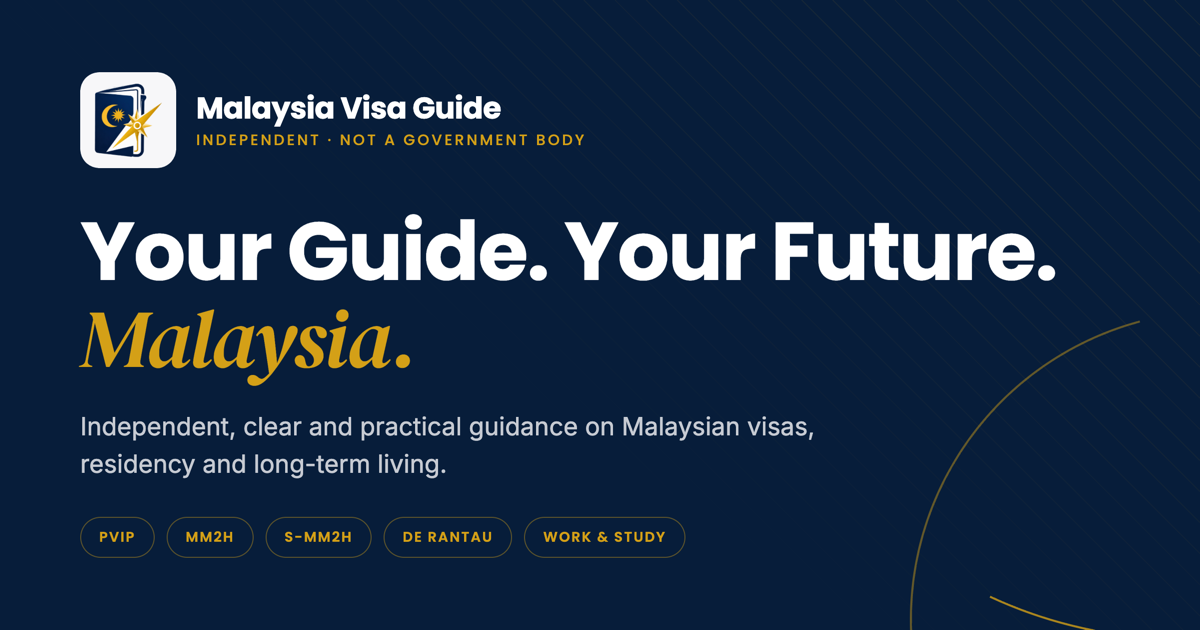
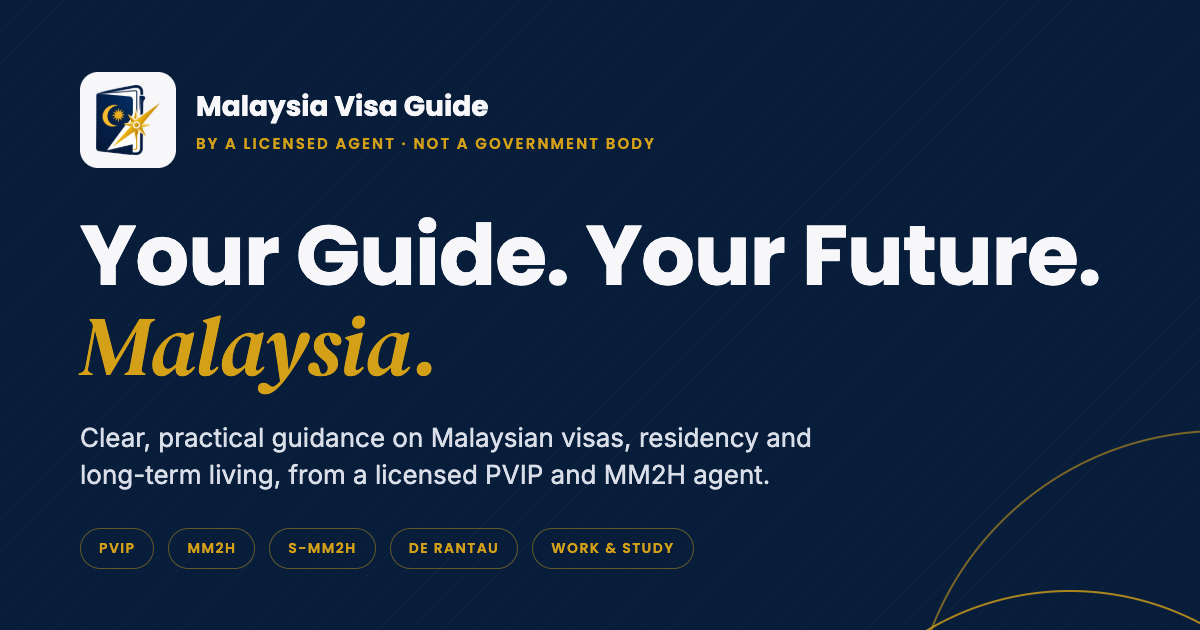
Batch 3: replace the 'independent' positioning with the licensed-agent wording; disclosure under every H1; both companies named in the author box and footer
- B3-1: site description, strapline, footer, home, about, contact, thank-you, editorial policy, llms.txt and the social card, in all three languages
- B3-2: one-line disclosure under the H1 on guides, insights and tools
- B3-3: author box and footer name MYPVIP and MY Premium MM2H with their programmes
- Social card source kept at docs/brand/og-card.html

diff --git a/src/locales/ui/en.ts b/src/locales/ui/en.ts
@@ -141,6 +141,10 @@ export type UiStrings = {
     bylineMid: string;
     bylineAfter: string;
     bylinePublished: (date: string) => string;
+    /** The one-line disclosure under the H1 (audit task B3-2); the author's
+     *  name, linked to the author page, sits between the two halves. */
+    disclosureLineBefore: string;
+    disclosureLineAfter: string;
     bylineLastReviewed: (date: string) => string;
     /** The tier comparison table — components/TierTable.tsx. */
     tiers: {
@@ -385,10 +389,10 @@ export type UiStrings = {
 export const ui: UiStrings = {
   siteName: "Malaysia Visa Guide",
   siteDescription:
-    "An independent guide to Malaysia's long-stay visa programmes — PVIP, MM2H, Sarawak MM2H and DE Rantau. Costs, requirements and timelines, verified against official sources.",
+    "Malaysia's long-stay visas — PVIP, MM2H, Sarawak MM2H and DE Rantau — explained by a licensed PVIP and MM2H agent. Figures checked against official documents.",
   ogImageAlt:
-    "Malaysia Visa Guide — an independent guide to PVIP, MM2H, Sarawak MM2H, DE Rantau and the Student and Employment passes.",
-  strapline: ["Independent visa guide", "not a government body"],
+    "Malaysia Visa Guide — PVIP, MM2H, Sarawak MM2H, DE Rantau and the Student and Employment passes, explained by a licensed PVIP and MM2H agent.",
+  strapline: ["By a licensed visa agent", "not a government body"],
   askQuestion: "Ask a question",
   menu: "Menu",
   ariaPrimaryNav: "Primary",
@@ -488,10 +492,10 @@ export const ui: UiStrings = {
     headingAccent: "no sales pitch",
     disclosureTitle: "Publisher & disclosure",
     disclosureBefore:
-      "An independent guide — not affiliated with the Immigration Department of Malaysia or any government agency. Published by Jason Yap, Managing Director of ",
+      "Written and maintained by a licensed PVIP and MM2H agent. Figures are checked against official documents; where we rely on our own practice, we say so. Not affiliated with the Immigration Department of Malaysia or any government agency. Published by Jason Yap, Managing Director of ",
     disclosureMypvip: "MYPVIP",
     disclosureBetween:
-      ", a licensed agency whose services are described on ",
+      " (MY PR Program Sdn Bhd, which handles Premium Visa Programme applications) and of MY Premium MM2H (My Premium (MM2H) Sdn Bhd, which handles Malaysia My Second Home applications). Both are described on ",
     disclosureAbout: "the about page",
     disclosureAfter: ".",
     rights: "All rights reserved.",
@@ -517,7 +521,10 @@ export const ui: UiStrings = {
     keyFactsLabel: (programme) => `Key facts: ${programme}`,
     bylineBefore: "Written and reviewed by ",
     bylineMid: "President, MPVIPCA · Managing Director, ",
-    bylineAfter: "",
+    bylineAfter: " (Premium Visa Programme) and MY Premium MM2H (Malaysia My Second Home)",
+    disclosureLineBefore: "Disclosure: this guide is published by ",
+    disclosureLineAfter:
+      ", Managing Director of MYPVIP and MY Premium MM2H, which are licensed PVIP and MM2H agencies.",
     bylinePublished: (date) => `Published ${date}`,
     bylineLastReviewed: (date) => `Last reviewed ${date}`,
     tiers: {

diff --git a/docs/brand/og-card.html b/docs/brand/og-card.html
@@ -1,0 +1,50 @@
+<!doctype html>
+<!--
+  Source for public/og.png — the sitewide social card.
+
+  Not part of the build. To regenerate: open this file in Chrome at exactly
+  1200×630, screenshot to public/og.png, then `sips -z 630 1200 public/og.png`.
+  Reword here whenever the site's positioning line changes (last: 10 Nov 2026,
+  audit task B3-1 — "independent" replaced by the licensed-agent wording).
+-->
+<html lang="en">
+<head>
+<meta charset="utf-8">
+<link href="https://fonts.googleapis.com/css2?family=DM+Serif+Display:ital@1&family=Inter:wght@400&family=Poppins:wght@600;700&display=swap" rel="stylesheet">
+<style>
+  * { margin: 0; box-sizing: border-box; }
+  body {
+    width: 1200px; height: 630px; overflow: hidden; position: relative;
+    background: #071d3a;
+    background-image: repeating-linear-gradient(135deg, transparent 0 22px, rgb(255 255 255 / 0.025) 22px 23px);
+    color: #f7f7f9; font-family: Inter, sans-serif; padding: 72px 80px;
+  }
+  .arc { position: absolute; right: -330px; bottom: -420px; width: 620px; height: 620px; border: 2px solid rgb(212 160 23 / 0.55); border-radius: 50%; }
+  .arc.two { right: -150px; bottom: -520px; width: 560px; height: 560px; border-color: rgb(212 160 23 / 0.8); }
+  .brand { display: flex; align-items: center; gap: 20px; }
+  .mark { width: 96px; height: 96px; border-radius: 18px; background: #f7f7f9; display: grid; place-items: center; }
+  .mark img { height: 70px; }
+  .name { font: 700 28px Poppins, sans-serif; }
+  .strap { margin-top: 4px; font: 600 15px Poppins, sans-serif; letter-spacing: 0.14em; color: #d4a017; text-transform: uppercase; }
+  h1 { margin-top: 44px; font: 700 84px/1.05 Poppins, sans-serif; letter-spacing: -0.01em; }
+  .gold { font: italic 400 84px/1.1 "DM Serif Display", serif; color: #d4a017; }
+  .lead { margin-top: 26px; max-width: 800px; font-size: 26px; line-height: 1.45; color: #d9dee8; }
+  .pills { margin-top: 34px; display: flex; gap: 14px; }
+  .pills span { border: 1px solid rgb(212 160 23 / 0.45); border-radius: 999px; padding: 9px 18px; font: 600 14px Poppins, sans-serif; letter-spacing: 0.1em; color: #d4a017; }
+</style>
+</head>
+<body>
+  <div class="arc"></div><div class="arc two"></div>
+  <div class="brand">
+    <div class="mark"><img src="../../public/logo-mark.png" alt=""></div>
+    <div>
+      <div class="name">Malaysia Visa Guide</div>
+      <div class="strap">By a licensed agent · not a government body</div>
+    </div>
+  </div>
+  <h1>Your Guide. Your Future.</h1>
+  <div class="gold">Malaysia.</div>
+  <p class="lead">Clear, practical guidance on Malaysian visas, residency and long-term living, from a licensed PVIP and MM2H agent.</p>
+  <div class="pills"><span>PVIP</span><span>MM2H</span><span>S-MM2H</span><span>DE RANTAU</span><span>WORK &amp; STUDY</span></div>
+</body>
+</html>

diff --git a/src/locales/ui/zh-hans.ts b/src/locales/ui/zh-hans.ts
@@ -16,10 +16,10 @@ import type { UiStrings } from "./en";
 export const ui: UiStrings = {
   siteName: "马来西亚签证指南",
   siteDescription:
-    "独立解读马来西亚长期居留签证 —— PVIP、MM2H、砂拉越 MM2H 与 DE Rantau。费用、条件与办理时程，全部核对官方来源。",
+    "由持牌 PVIP 与 MM2H 代理讲解马来西亚长期居留签证 —— PVIP、MM2H、砂拉越 MM2H 与 DE Rantau。费用、条件与办理时程，全部核对官方文件。",
   ogImageAlt:
-    "Malaysia Visa Guide —— 独立解读 PVIP、MM2H、砂拉越 MM2H、DE Rantau 以及学生准证与工作准证。",
-  strapline: ["独立签证指南", "并非政府机构"],
+    "Malaysia Visa Guide —— 由持牌 PVIP 与 MM2H 代理讲解 PVIP、MM2H、砂拉越 MM2H、DE Rantau 以及学生准证与工作准证。",
+  strapline: ["持牌代理撰写", "并非政府机构"],
   askQuestion: "咨询提问",
   menu: "菜单",
   ariaPrimaryNav: "主导航",
@@ -110,9 +110,9 @@ export const ui: UiStrings = {
     headingAccent: "绝不推销",
     disclosureTitle: "出版方与利益声明",
     disclosureBefore:
-      "本站是独立指南 —— 与马来西亚移民局或任何政府机构均无隶属关系。出版人为 Jason Yap，他同时是 ",
+      "本站由持牌 PVIP 与 MM2H 代理撰写并维护。数字均核对官方文件；凡依据我们自身办理经验之处，都会注明。本站与马来西亚移民局或任何政府机构均无隶属关系。出版人为 Jason Yap，他同时是 ",
     disclosureMypvip: "MYPVIP",
-    disclosureBetween: " 的董事总经理；该持牌代理机构提供的服务，说明见",
+    disclosureBetween: "（MY PR Program Sdn Bhd，办理 Premium Visa Programme 申请）与 MY Premium MM2H（My Premium (MM2H) Sdn Bhd，办理 Malaysia My Second Home 申请）的董事总经理。两家公司的说明见",
     disclosureAbout: "关于我们",
     disclosureAfter: "。",
     rights: "版权所有。",
@@ -138,7 +138,9 @@ export const ui: UiStrings = {
     keyFactsLabel: (programme) => `${programme} 关键数据`,
     bylineBefore: "撰写与复核：",
     bylineMid: "MPVIPCA 会长 · ",
-    bylineAfter: " 董事总经理",
+    bylineAfter: "（Premium Visa Programme）与 MY Premium MM2H（Malaysia My Second Home）董事总经理",
+    disclosureLineBefore: "利益声明：本站出版人 ",
+    disclosureLineAfter: " 是 MYPVIP 与 MY Premium MM2H 的董事总经理，两家公司均为持牌的 PVIP、MM2H 代理机构。",
     bylinePublished: (date) => `发布于 ${date}`,
     bylineLastReviewed: (date) => `最后复核于 ${date}`,
     tiers: {

diff --git a/src/locales/ui/zh-hant.ts b/src/locales/ui/zh-hant.ts
@@ -19,10 +19,10 @@ import type { UiStrings } from "./en";
 export const ui: UiStrings = {
   siteName: "馬來西亞簽證指南",
   siteDescription:
-    "獨立解讀馬來西亞長期居留簽證 —— PVIP、MM2H、砂拉越 MM2H 與 DE Rantau。費用、條件與辦理時程，全部核對官方來源。",
+    "由持牌 PVIP 與 MM2H 代理講解馬來西亞長期居留簽證 —— PVIP、MM2H、砂拉越 MM2H 與 DE Rantau。費用、條件與辦理時程，全部核對官方文件。",
   ogImageAlt:
-    "Malaysia Visa Guide —— 獨立解讀 PVIP、MM2H、砂拉越 MM2H、DE Rantau 以及學生準證與工作準證。",
-  strapline: ["獨立簽證指南", "並非政府機構"],
+    "Malaysia Visa Guide —— 由持牌 PVIP 與 MM2H 代理講解 PVIP、MM2H、砂拉越 MM2H、DE Rantau 以及學生準證與工作準證。",
+  strapline: ["持牌代理撰寫", "並非政府機構"],
   askQuestion: "諮詢提問",
   menu: "選單",
   ariaPrimaryNav: "主導航",
@@ -113,9 +113,9 @@ export const ui: UiStrings = {
     headingAccent: "絕不推銷",
     disclosureTitle: "出版方與利益聲明",
     disclosureBefore:
-      "本站是獨立指南 —— 與馬來西亞移民局或任何政府機構均無隸屬關係。出版人為 Jason Yap，他同時是 ",
+      "本站由持牌 PVIP 與 MM2H 代理撰寫並維護。數字均核對官方文件；凡依據我們自身辦理經驗之處，都會註明。本站與馬來西亞移民局或任何政府機構均無隸屬關係。出版人為 Jason Yap，他同時是 ",
     disclosureMypvip: "MYPVIP",
-    disclosureBetween: " 的董事總經理；該持牌代理機構提供的服務，說明見",
+    disclosureBetween: "（MY PR Program Sdn Bhd，辦理 Premium Visa Programme 申請）與 MY Premium MM2H（My Premium (MM2H) Sdn Bhd，辦理 Malaysia My Second Home 申請）的董事總經理。兩家公司的說明見",
     disclosureAbout: "關於我們",
     disclosureAfter: "。",
     rights: "版權所有。",
@@ -141,7 +141,9 @@ export const ui: UiStrings = {
     keyFactsLabel: (programme) => `${programme} 關鍵數據`,
     bylineBefore: "撰寫與複核：",
     bylineMid: "MPVIPCA 會長 · ",
-    bylineAfter: " 董事總經理",
+    bylineAfter: "（Premium Visa Programme）與 MY Premium MM2H（Malaysia My Second Home）董事總經理",
+    disclosureLineBefore: "利益聲明：本站出版人 ",
+    disclosureLineAfter: " 是 MYPVIP 與 MY Premium MM2H 的董事總經理，兩家公司均為持牌的 PVIP、MM2H 代理機構。",
     bylinePublished: (date) => `發佈於 ${date}`,
     bylineLastReviewed: (date) => `最後複核於 ${date}`,
     tiers: {

diff --git a/src/content/about/zh-hans.tsx b/src/content/about/zh-hans.tsx
@@ -33,7 +33,7 @@ export const copy: AboutCopy = {
 
   standfirst: (
     <>
-      这是一份关于马来西亚长期居留签证的独立参考，撰写人以办理这类申请为业。本站不是政府网站，也不回避自己的商业关系
+      这是一份关于马来西亚长期居留签证的参考，由持牌 PVIP 与 MM2H 代理撰写并维护 —— 撰写人以办理这类申请为业。本站不是政府网站，也不回避自己的商业关系
       —— 下面都会说清楚。
     </>
   ),
@@ -90,7 +90,7 @@ export const copy: AboutCopy = {
           和那些更便宜的计划，写得和代理机构收费承办的计划一样详细 ——
           因为一份回避了不利选项的参考，根本算不上参考。
           <Link href={href("/editorial-policy/")}>编辑方针</Link>
-          交代了这份独立性是怎么守住的。
+          交代了随之而来的承诺。
         </p>
       </>
     ),
@@ -151,7 +151,7 @@ export const copy: AboutCopy = {
       <p>
         本站与马来西亚移民局（Immigration Department of
         Malaysia）、旅游艺术文化部（MOTAC）、马来西亚数字经济发展机构（MDEC）、砂拉越州政府、EMGS
-        或任何其他公共机构均无隶属关系。本站公布的每一个数字都能追溯到官方出处，但本站本身是一份私人运营的独立指南。正式申请要通过相关主管机构或持牌代理办理
+        或任何其他公共机构均无隶属关系。本站公布的每一个数字都能追溯到官方出处，但本站本身是一份由持牌代理私人运营的指南。正式申请要通过相关主管机构或持牌代理办理
         —— 这份指南的作用，是让你在走进去之前就知道会遇到什么。
       </p>
     ),

diff --git a/src/content/about/zh-hant.tsx b/src/content/about/zh-hant.tsx
@@ -36,7 +36,7 @@ export const copy: AboutCopy = {
 
   standfirst: (
     <>
-      這是一份關於馬來西亞長期居留簽證的獨立參考，撰寫人以辦理這類申請為業。本站不是政府網站，也不迴避自己的商業關係
+      這是一份關於馬來西亞長期居留簽證的參考，由持牌 PVIP 與 MM2H 代理撰寫並維護 —— 撰寫人以辦理這類申請為業。本站不是政府網站，也不迴避自己的商業關係
       —— 下面都會說清楚。
     </>
   ),
@@ -93,7 +93,7 @@ export const copy: AboutCopy = {
           和那些更便宜的計劃，寫得和代理機構收費承辦的計劃一樣詳細 ——
           因為一份迴避了不利選項的參考，根本算不上參考。
           <Link href={href("/editorial-policy/")}>編輯方針</Link>
-          交代了這份獨立性是怎麼守住的。
+          交代了隨之而來的承諾。
         </p>
       </>
     ),
@@ -154,7 +154,7 @@ export const copy: AboutCopy = {
       <p>
         本站與馬來西亞移民局（Immigration Department of
         Malaysia）、旅遊藝術文化部（MOTAC）、馬來西亞數字經濟發展機構（MDEC）、砂拉越州政府、EMGS
-        或任何其他公共機構均無隸屬關係。本站公佈的每一個數字都能追溯到官方出處，但本站本身是一份私人運營的獨立指南。正式申請要通過相關主管機構或持牌代理辦理
+        或任何其他公共機構均無隸屬關係。本站公佈的每一個數字都能追溯到官方出處，但本站本身是一份由持牌代理私人運營的指南。正式申請要通過相關主管機構或持牌代理辦理
         —— 這份指南的作用，是讓你在走進去之前就知道會遇到什麼。
       </p>
     ),

diff --git a/src/content/about/en.tsx b/src/content/about/en.tsx
@@ -12,8 +12,9 @@ export const copy: AboutCopy = {
 
   standfirst: (
     <>
-      This is an independent reference on Malaysia&apos;s long-stay visas,
-      written by someone who files these applications for a living. It is not a
+      This is a reference on Malaysia&apos;s long-stay visas, written and
+      maintained by a licensed PVIP and MM2H agent: someone who files these
+      applications for a living. It is not a
       government site, and it is candid about its commercial relationships —
       both are explained below.
     </>
@@ -82,7 +83,7 @@ export const copy: AboutCopy = {
           to file, because a reference that hides the inconvenient options is
           not a reference at all. The{" "}
           <Link href={href("/editorial-policy/")}>editorial policy</Link> sets
-          out exactly how that independence is kept.
+          out the commitments that go with it.
         </p>
       </>
     ),
@@ -152,7 +153,7 @@ export const copy: AboutCopy = {
         This site is not affiliated with the Immigration Department of Malaysia,
         MOTAC, MDEC, the Sarawak state government, EMGS, or any other public
         authority. Every figure it publishes is traced back to an official
-        source, but the site itself is a private, independently-run guide. For a
+        source, but the site itself is a private guide run by a licensed agent. For a
         formal application you deal with the relevant authority or a licensed
         agent — this guide helps you walk in knowing what to expect.
       </p>

diff --git a/src/content/home/zh-hans.tsx b/src/content/home/zh-hans.tsx
@@ -18,7 +18,7 @@ import type { HomeCopy } from "./types";
  */
 export const copy: HomeCopy = {
   hero: {
-    eyebrow: "独立运营 · 每个数字都注明出处与日期",
+    eyebrow: "持牌代理撰写 · 每个数字都注明出处与日期",
     // 品牌模板 §9：Your Guide. Your Future. Malaysia.
     // 英文原句是三个短句，中文拆成三行会各只有四个字，在 display 字号下显得
     // 单薄；合并成两行，重音仍落在「马来西亚」——那是这句话真正的落点。
@@ -35,7 +35,7 @@ export const copy: HomeCopy = {
     // 英文用 "Long-Stay Residency"，中文说「长期居留」——这是中文读者
     // 真正会搜的词，不是 "Residency" 的直译。
     subheading: "马来西亚签证与长期居留指南 2026",
-    lead: "独立、清晰、实用的马来西亚签证、居留与长期生活指引。本站的每一个数字，都核对过官方来源。",
+    lead: "清晰、实用的马来西亚签证、居留与长期生活指引。本站的每一个数字，都核对过官方来源。",
     chips: ["六项计划全覆盖", "费用全部列明", "每月复核"],
     ctaPrimary: "查看签证选项",
     ctaSecondary: "咨询专家",

diff --git a/src/content/home/zh-hant.tsx b/src/content/home/zh-hant.tsx
@@ -21,7 +21,7 @@ import type { HomeCopy } from "./types";
  */
 export const copy: HomeCopy = {
   hero: {
-    eyebrow: "獨立運營 · 每個數字都註明出處與日期",
+    eyebrow: "持牌代理撰寫 · 每個數字都註明出處與日期",
     // 品牌模板 §9：Your Guide. Your Future. Malaysia.
     // 英文原句是三個短句，中文拆成三行會各只有四個字，在 display 字號下顯得
     // 單薄；合併成兩行，重音仍落在「馬來西亞」——那是這句話真正的落點。
@@ -38,7 +38,7 @@ export const copy: HomeCopy = {
     // 英文用 "Long-Stay Residency"，中文說「長期居留」——這是中文讀者
     // 真正會搜的詞，不是 "Residency" 的直譯。
     subheading: "馬來西亞簽證與長期居留指南 2026",
-    lead: "獨立、清晰、實用的馬來西亞簽證、居留與長期生活指引。本站的每一個數字，都核對過官方來源。",
+    lead: "清晰、實用的馬來西亞簽證、居留與長期生活指引。本站的每一個數字，都核對過官方來源。",
     chips: ["六項計劃全覆蓋", "費用全部列明", "每月複核"],
     ctaPrimary: "查看簽證選項",
     ctaSecondary: "諮詢專家",

diff --git a/src/app/llms.txt/route.ts b/src/app/llms.txt/route.ts
@@ -60,7 +60,7 @@ export async function GET() {
   const body = [
     `# ${SITE}`,
     "",
-    "> An independent guide to Malaysia's long-stay visa programmes: PVIP, MM2H, Sarawak MM2H, DE Rantau, the Employment Pass and the Student Pass. Costs, requirements and timelines, each figure dated and sourced to the official document it comes from.",
+    "> A guide to Malaysia's long-stay visa programmes, written and maintained by a licensed PVIP and MM2H agent: PVIP, MM2H, Sarawak MM2H, DE Rantau, the Employment Pass and the Student Pass. Costs, requirements and timelines, each figure dated and sourced to the official document it comes from.",
     "",
     "Written and reviewed by Jason Yap, Managing Director of two licensed Malaysian visa agencies (MYPVIP and MY Premium MM2H); the relationship is disclosed on every page. Each page carries its review date and a source list. Where an official document has not caught up with a rule change, the page says so and names the source it relies on instead.",
     "",

diff --git a/src/components/Disclosure.tsx b/src/components/Disclosure.tsx
@@ -1,0 +1,29 @@
+import Link from "next/link";
+import { type Locale } from "@/lib/i18n";
+import { site } from "@/lib/site";
+import { linkPath } from "@/lib/translated";
+import { getUi } from "@/lib/ui";
+
+/**
+ * The one-line disclosure that sits directly under the H1 (audit task B3-2).
+ *
+ * The footer block says the same thing at length, but a reader who lands on a
+ * guide from search and leaves after the second screen never reaches the
+ * footer. This puts who publishes the page, and what he sells, above the
+ * figures rather than below them.
+ */
+export function Disclosure({ locale }: { locale: Locale }) {
+  const g = getUi(locale).guide;
+  return (
+    <p className="max-w-3xl text-caption leading-relaxed text-ink-muted">
+      {g.disclosureLineBefore}
+      <Link
+        href={linkPath(site.author.path, locale)}
+        className="font-semibold text-forest-700 underline"
+      >
+        {site.author.name}
+      </Link>
+      {g.disclosureLineAfter}
+    </p>
+  );
+}

diff --git a/src/content/thank-you/zh-hans.tsx b/src/content/thank-you/zh-hans.tsx
@@ -35,7 +35,7 @@ export const copy: ThankYouCopy = {
   body: (href) => (
     <>
       <p>
-        等回复的时候，有一点值得知道：发出这条信息并没有启动任何签证申请，也不构成任何承诺。本站是一份独立指南。如果结论是你自己办更划算，或者更便宜的计划更适合你，那就会这样告诉你
+        等回复的时候，有一点值得知道：发出这条信息并没有启动任何签证申请，也不构成任何承诺。如果结论是你自己办更划算，或者更便宜的计划更适合你，那就会这样告诉你
         —— <Link href={href("/editorial-policy/")}>编辑方针</Link> 和{" "}
         <Link href={href("/about/")}>已公开披露的商业关系</Link> 都交代了原因。
       </p>
